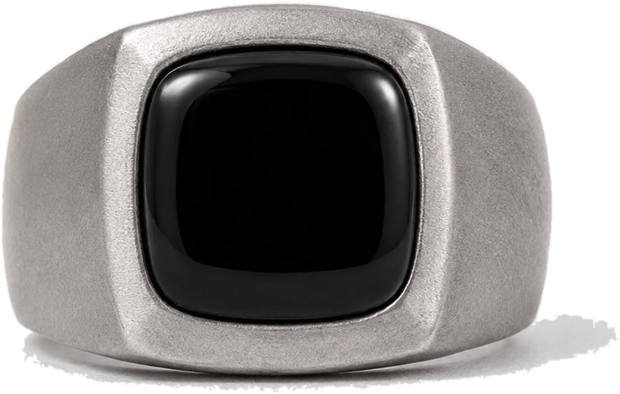
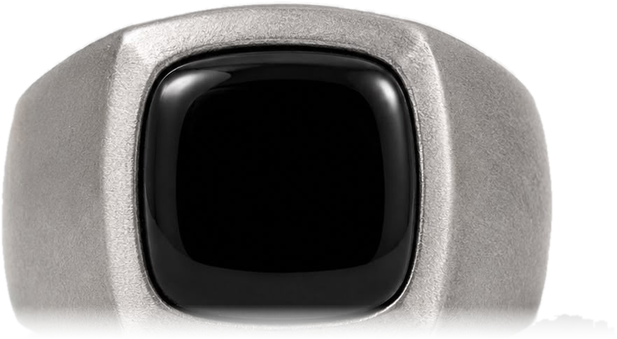
Try-on fine-tuning: shadow-free ring, smaller + pinch-resize, photo preview before save
- Removed the residual contact shadow baked into the ring cutout (clean_shadow.py)
- Ring overlay no longer fixed-large: default ~18% width + Size slider 0.06-0.7 + pinch-to-resize,
  so it can match a whole hand held further from the camera
- Photo now shows a PREVIEW first (image + OBVIOUS watermark) with Save/Share or Retake;
  sharing fires on the explicit Save tap (gesture-safe, image/jpeg via Web Share / download)
- SW v14

Changed region(s): [[0.0, 0.0, 1.0, 1.0], [0.154, 0.531, 0.1848, 0.5605]]

diff --git a/index.html b/index.html
@@ -257,6 +257,7 @@ input[type=range]::-moz-range-thumb{width:22px;height:22px;border-radius:50%;bac
 .cal-toggle{position:absolute;left:50%;top:9px;transform:translateX(-50%);display:flex;gap:6px;z-index:6}
 .cal-toggle .chip{padding:6px 12px;font-size:11.5px;background:rgba(12,12,13,.55);color:rgba(255,255,255,.75);border-color:rgba(255,255,255,.25);backdrop-filter:blur(6px);-webkit-backdrop-filter:blur(6px)}
 .cal-toggle .chip.on{background:#fff;color:#0c0c0d;border-color:#fff}
+#photoImg{display:block;width:100%;max-height:58vh;object-fit:contain;background:#000;border:1.5px solid var(--ink);border-radius:6px;margin-bottom:14px}
 #s-cal .panel{padding:6px 16px calc(8px + var(--safe-b))}
 .cal-ctl{display:flex;align-items:center;gap:12px}
 .cal-ctl .step-btn{flex:0 0 auto;width:42px;height:42px;font-size:20px}
@@ -336,17 +337,17 @@ input[type=range]::-moz-range-thumb{width:22px;height:22px;border-radius:50%;bac
 <!-- AR TRY-ON -->
 <section class="screen" id="s-ar">
   <div class="topbar"><span class="wordmark"><svg><use href="#mark"/></svg> Try-On</span><button class="tb-link" id="arBack2">Done</button></div>
-  <div class="stage-head"><h2 class="title">Try it on</h2><p class="body" style="margin-top:6px">Point the rear camera at your hand, then <b>drag the ring</b> onto your finger. Resize and rotate to fit.</p></div>
+  <div class="stage-head"><h2 class="title">Try it on</h2><p class="body" style="margin-top:6px">Point the rear camera at your hand, then <b>drag the ring</b> onto your finger. <b>Pinch</b> to resize, rotate to fit.</p></div>
   <div class="stage-wrap" id="arStage">
     <video id="arVid" playsinline muted></video>
     <canvas id="arCanvas"></canvas>
-    <div class="cam-pill" id="arPill">Drag the ring onto your finger</div>
+    <div class="cam-pill" id="arPill">Drag to place · pinch to resize</div>
     <div class="snap-flash" id="snapFlash"></div>
     <div class="cam-controls"><button class="cam-btn" id="arSnap">📷 Photo</button></div>
     <div class="cam-fail" id="arFail" hidden><svg viewBox="0 0 24 24" fill="none" stroke="currentColor" stroke-width="1.5"><path d="M2 2l20 20M9 5h6l2 3h3a1 1 0 011 1v9M2 9v9a1 1 0 001 1h13"/></svg><div id="arFailMsg">Camera unavailable.</div></div>
   </div>
   <div class="panel">
-    <div class="ar-row"><label>Size</label><input type="range" id="arSize" min="0.5" max="2" step="0.01" value="1"></div>
+    <div class="ar-row"><label>Size</label><input type="range" id="arSize" min="0.06" max="0.7" step="0.005" value="0.18"></div>
     <div class="ar-row"><label>Rotate</label><input type="range" id="arRot" min="-45" max="45" step="1" value="0"></div>
     <div class="btnrow" style="margin-top:6px"><button class="btn btn-primary btn-block" id="arMeasureCta">Measure my size →</button></div>
     <p class="privacy-note">🔒 Processed on your device — nothing is uploaded.</p>
@@ -478,6 +479,11 @@ input[type=range]::-moz-range-thumb{width:22px;height:22px;border-radius:50%;bac
   <button class="btn btn-primary btn-block" id="installSheetClose">Got it</button></div></div>
 
 <div id="installBar"><svg class="ib-i" viewBox="0 0 48 48" style="color:var(--ink)"><use href="#mark"/></svg><span class="ib-t"><b>Install OBVIOUS</b>Home screen · works offline</span><button class="btn btn-primary btn-sm" id="installYes">Install</button><button class="ib-x" id="installNo" aria-label="Close">×</button></div>
+<div class="overlay" id="photoPreview" role="dialog" aria-modal="true"><div class="sheet"><div class="grab"></div>
+  <h3>Your try-on</h3>
+  <img id="photoImg" alt="Try-on preview">
+  <div class="btnrow"><button class="btn btn-primary btn-block" id="photoSave">Save / Share</button><button class="btn btn-outline btn-block" id="photoRetake">Retake</button></div></div></div>
+
 <div class="zoom-warn" id="zoomWarn">Screen is zoomed — reset to 100% to measure correctly.</div>
 <div id="toast" role="status"></div>
 
@@ -618,12 +624,12 @@ const camMeasure=(()=>{ const stage=$('#camStage'),vid=$('#camVid'),c0=$('#cm0')
 
 /* AR TRY-ON (manual: rear camera, drag the ring, resize/rotate, gesture-safe photo via Web Share) */
 const arTryOn=(()=>{ const stage=$('#arStage'),vid=$('#arVid'),cv=$('#arCanvas'),ctx=cv.getContext('2d');
-  let stream=null,raf=0,running=false,sizeMul=1,rotDeg=0,DPR=1,W=0,H=0;
-  let manual={x:0.5,y:0.46};
+  let stream=null,raf=0,running=false,sizeMul=0.18,rotDeg=0,DPR=1,W=0,H=0,shotBlob=null;
+  let manual={x:0.5,y:0.46}; const ptrs=new Map(); let pinchD0=0,size0=0;
   const ringImg=new Image(); let ringReady=false; ringImg.onload=()=>ringReady=true; ringImg.src=RING_IMG;
   function resize(){ const r=stage.getBoundingClientRect(); DPR=Math.min(2,devicePixelRatio||1); W=r.width;H=r.height; cv.width=W*DPR;cv.height=H*DPR; }
   function cover(){ const vw=vid.videoWidth||1280,vh=vid.videoHeight||720,sc=Math.max(W/vw,H/vh); return {sc,dx:(W-vw*sc)/2,dy:(H-vh*sc)/2,vw,vh}; }
-  function drawRing(){ if(!ringReady)return; const w=W*0.34*sizeMul,h=w*(ringImg.height/ringImg.width),cx=manual.x*W,cy=manual.y*H;
+  function drawRing(){ if(!ringReady)return; const w=W*sizeMul,h=w*(ringImg.height/ringImg.width),cx=manual.x*W,cy=manual.y*H;
     ctx.save(); ctx.translate(cx,cy); ctx.rotate(rotDeg*Math.PI/180); ctx.drawImage(ringImg,-w/2,-h*0.5,w,h); ctx.restore(); }
   function watermark(){ const x=18,y=H-18,r=11; ctx.save(); ctx.shadowColor='rgba(0,0,0,.6)'; ctx.shadowBlur=6; ctx.fillStyle='#fff';
     ctx.beginPath(); for(let i=0;i<6;i++){const a=(-90+i*60)*Math.PI/180,px=x+r*Math.cos(a),py=y-9+r*Math.sin(a);i?ctx.lineTo(px,py):ctx.moveTo(px,py);} ctx.closePath(); ctx.fill();
@@ -632,21 +638,27 @@ const arTryOn=(()=>{ const stage=$('#arStage'),vid=$('#arVid'),cv=$('#arCanvas')
     if(vid.readyState>=2){ const c=cover(); ctx.drawImage(vid,c.dx,c.dy,c.vw*c.sc,c.vh*c.sc); }
     drawRing(); raf=requestAnimationFrame(frame); }
   function dataURLtoBlob(d){ const [meta,b64]=d.split(','),mime=meta.match(/:(.*?);/)[1],bin=atob(b64),n=bin.length,u=new Uint8Array(n); for(let i=0;i<n;i++)u[i]=bin.charCodeAt(i); return new Blob([u],{type:mime}); }
-  // capture SYNCHRONOUSLY within the tap gesture (iOS requires it) → Web Share with an image File
+  // capture into a preview first; sharing happens on the explicit Save tap (gesture-safe)
   function takePhoto(){ if(!running||!ringReady){ toast('One sec — camera loading'); return; }
     watermark();  // logo onto the current composited frame
-    let blob; try{ blob=dataURLtoBlob(cv.toDataURL('image/jpeg',0.92)); }catch(e){ toast('Could not capture'); return; }
+    let dataURL; try{ dataURL=cv.toDataURL('image/jpeg',0.92); }catch(e){ toast('Could not capture'); return; }
+    shotBlob=dataURLtoBlob(dataURL);
     $('#snapFlash').classList.remove('go'); void $('#snapFlash').offsetWidth; $('#snapFlash').classList.add('go'); buzz(15);
-    const file=new File([blob],'obvious-try-on.jpg',{type:'image/jpeg'});
-    if(navigator.canShare && navigator.canShare({files:[file]})){ navigator.share({files:[file]}).catch(()=>{}); }
-    else { const a=document.createElement('a'); a.href=URL.createObjectURL(blob); a.download='obvious-try-on.jpg'; document.body.appendChild(a); a.click(); a.remove(); setTimeout(()=>URL.revokeObjectURL(a.href),4000); toast('Photo saved'); } }
-  // drag to position; ignore taps on the controls so the ring doesn't jump to the button
-  stage.addEventListener('pointerdown',e=>{ if(e.target.closest('.cam-controls'))return; const r=stage.getBoundingClientRect();
-    $('#arPill').style.opacity=0;
-    const set=ev=>{ manual.x=clamp((ev.clientX-r.left)/r.width,0,1); manual.y=clamp((ev.clientY-r.top)/r.height,0,1); }; set(e);
-    const mv=ev=>set(ev); const up=()=>{document.removeEventListener('pointermove',mv);document.removeEventListener('pointerup',up);};
-    document.addEventListener('pointermove',mv);document.addEventListener('pointerup',up); });
+    $('#photoImg').src=dataURL; $('#photoPreview').classList.add('show'); }
+  function savePhoto(){ if(!shotBlob)return; const file=new File([shotBlob],'obvious-try-on.jpg',{type:'image/jpeg'});
+    if(navigator.canShare && navigator.canShare({files:[file]})){ navigator.share({files:[file]}).then(()=>$('#photoPreview').classList.remove('show')).catch(()=>{}); }
+    else { const a=document.createElement('a'); a.href=URL.createObjectURL(shotBlob); a.download='obvious-try-on.jpg'; document.body.appendChild(a); a.click(); a.remove(); setTimeout(()=>URL.revokeObjectURL(a.href),4000); toast('Photo saved'); $('#photoPreview').classList.remove('show'); } }
+  // one finger = move the ring; two fingers = pinch to resize. Taps on controls don't move it.
+  stage.addEventListener('pointerdown',e=>{ if(e.target.closest('.cam-controls'))return; e.preventDefault(); ptrs.set(e.pointerId,{x:e.clientX,y:e.clientY}); $('#arPill').style.opacity=0;
+    if(ptrs.size===2){ const [a,b]=[...ptrs.values()]; pinchD0=Math.hypot(a.x-b.x,a.y-b.y); size0=sizeMul; } });
+  stage.addEventListener('pointermove',e=>{ if(!ptrs.has(e.pointerId))return; ptrs.set(e.pointerId,{x:e.clientX,y:e.clientY}); const r=stage.getBoundingClientRect();
+    if(ptrs.size>=2 && pinchD0>0){ const [a,b]=[...ptrs.values()]; sizeMul=clamp(size0*Math.hypot(a.x-b.x,a.y-b.y)/pinchD0,0.06,0.9); $('#arSize').value=sizeMul; }
+    else if(ptrs.size===1){ manual.x=clamp((e.clientX-r.left)/r.width,0,1); manual.y=clamp((e.clientY-r.top)/r.height,0,1); } });
+  ['pointerup','pointercancel','pointerleave'].forEach(ev=>stage.addEventListener(ev,e=>{ ptrs.delete(e.pointerId); pinchD0=0; }));
   $('#arSnap').addEventListener('click',takePhoto);
+  $('#photoSave').addEventListener('click',savePhoto);
+  $('#photoRetake').addEventListener('click',()=>{ $('#photoPreview').classList.remove('show'); shotBlob=null; });
+  $('#photoPreview').addEventListener('click',e=>{ if(e.target===$('#photoPreview')){ $('#photoPreview').classList.remove('show'); shotBlob=null; } });
   $('#arSize').addEventListener('input',e=>sizeMul=+e.target.value);
   $('#arRot').addEventListener('input',e=>rotDeg=+e.target.value);
   $('#arBack2').addEventListener('click',()=>go(lastResult?'s-result':'s-intro'));
@@ -656,7 +668,7 @@ const arTryOn=(()=>{ const stage=$('#arStage'),vid=$('#arVid'),cv=$('#arCanvas')
       if(!navigator.mediaDevices||!navigator.mediaDevices.getUserMedia){ fail(); return; }
       try{ stream=await openCamera(vid,'environment'); }catch(e){ fail(); return; }
       raf=requestAnimationFrame(frame); },
-    stop(){ running=false; cancelAnimationFrame(raf); stopStream(stream); stream=null; }, resize };
+    stop(){ running=false; cancelAnimationFrame(raf); stopStream(stream); stream=null; $('#photoPreview').classList.remove('show'); }, resize };
 })();
 
 /* CALIBRATION */

diff --git a/sw.js b/sw.js
@@ -1,5 +1,5 @@
 /* OBVIOUS · Ring Sizer — service worker */
-const VERSION = 'obvious-v13.0.0';
+const VERSION = 'obvious-v14.0.0';
 const SHELL = [
   './',
   './index.html',

diff --git a/clean_shadow.py b/clean_shadow.py
@@ -1,0 +1,24 @@
+"""Remove the residual contact shadow at the bottom of the ring cutout by
+fading the alpha to 0 below the ring band, then re-cropping."""
+from PIL import Image
+
+im = Image.open("assets/ring-cutout.png").convert("RGBA")
+W, H = im.size
+px = im.load()
+y0 = int(H * 0.86)   # start fading here (just below the band rim)
+y1 = int(H * 0.96)   # fully transparent from here down
+for y in range(y0, H):
+    f = 0.0 if y >= y1 else 1 - (y - y0) / (y1 - y0)
+    for x in range(W):
+        r, g, b, a = px[x, y]
+        px[x, y] = (r, g, b, int(a * f))
+
+bb = im.split()[3].getbbox()
+if bb:
+    im = im.crop(bb)
+im.save("assets/ring-cutout.png")
+
+# review composite
+bg = Image.new("RGBA", im.size, (255, 0, 255, 255))
+Image.alpha_composite(bg, im).convert("RGB").save("assets/_chk.png")
+print("done", im.size)